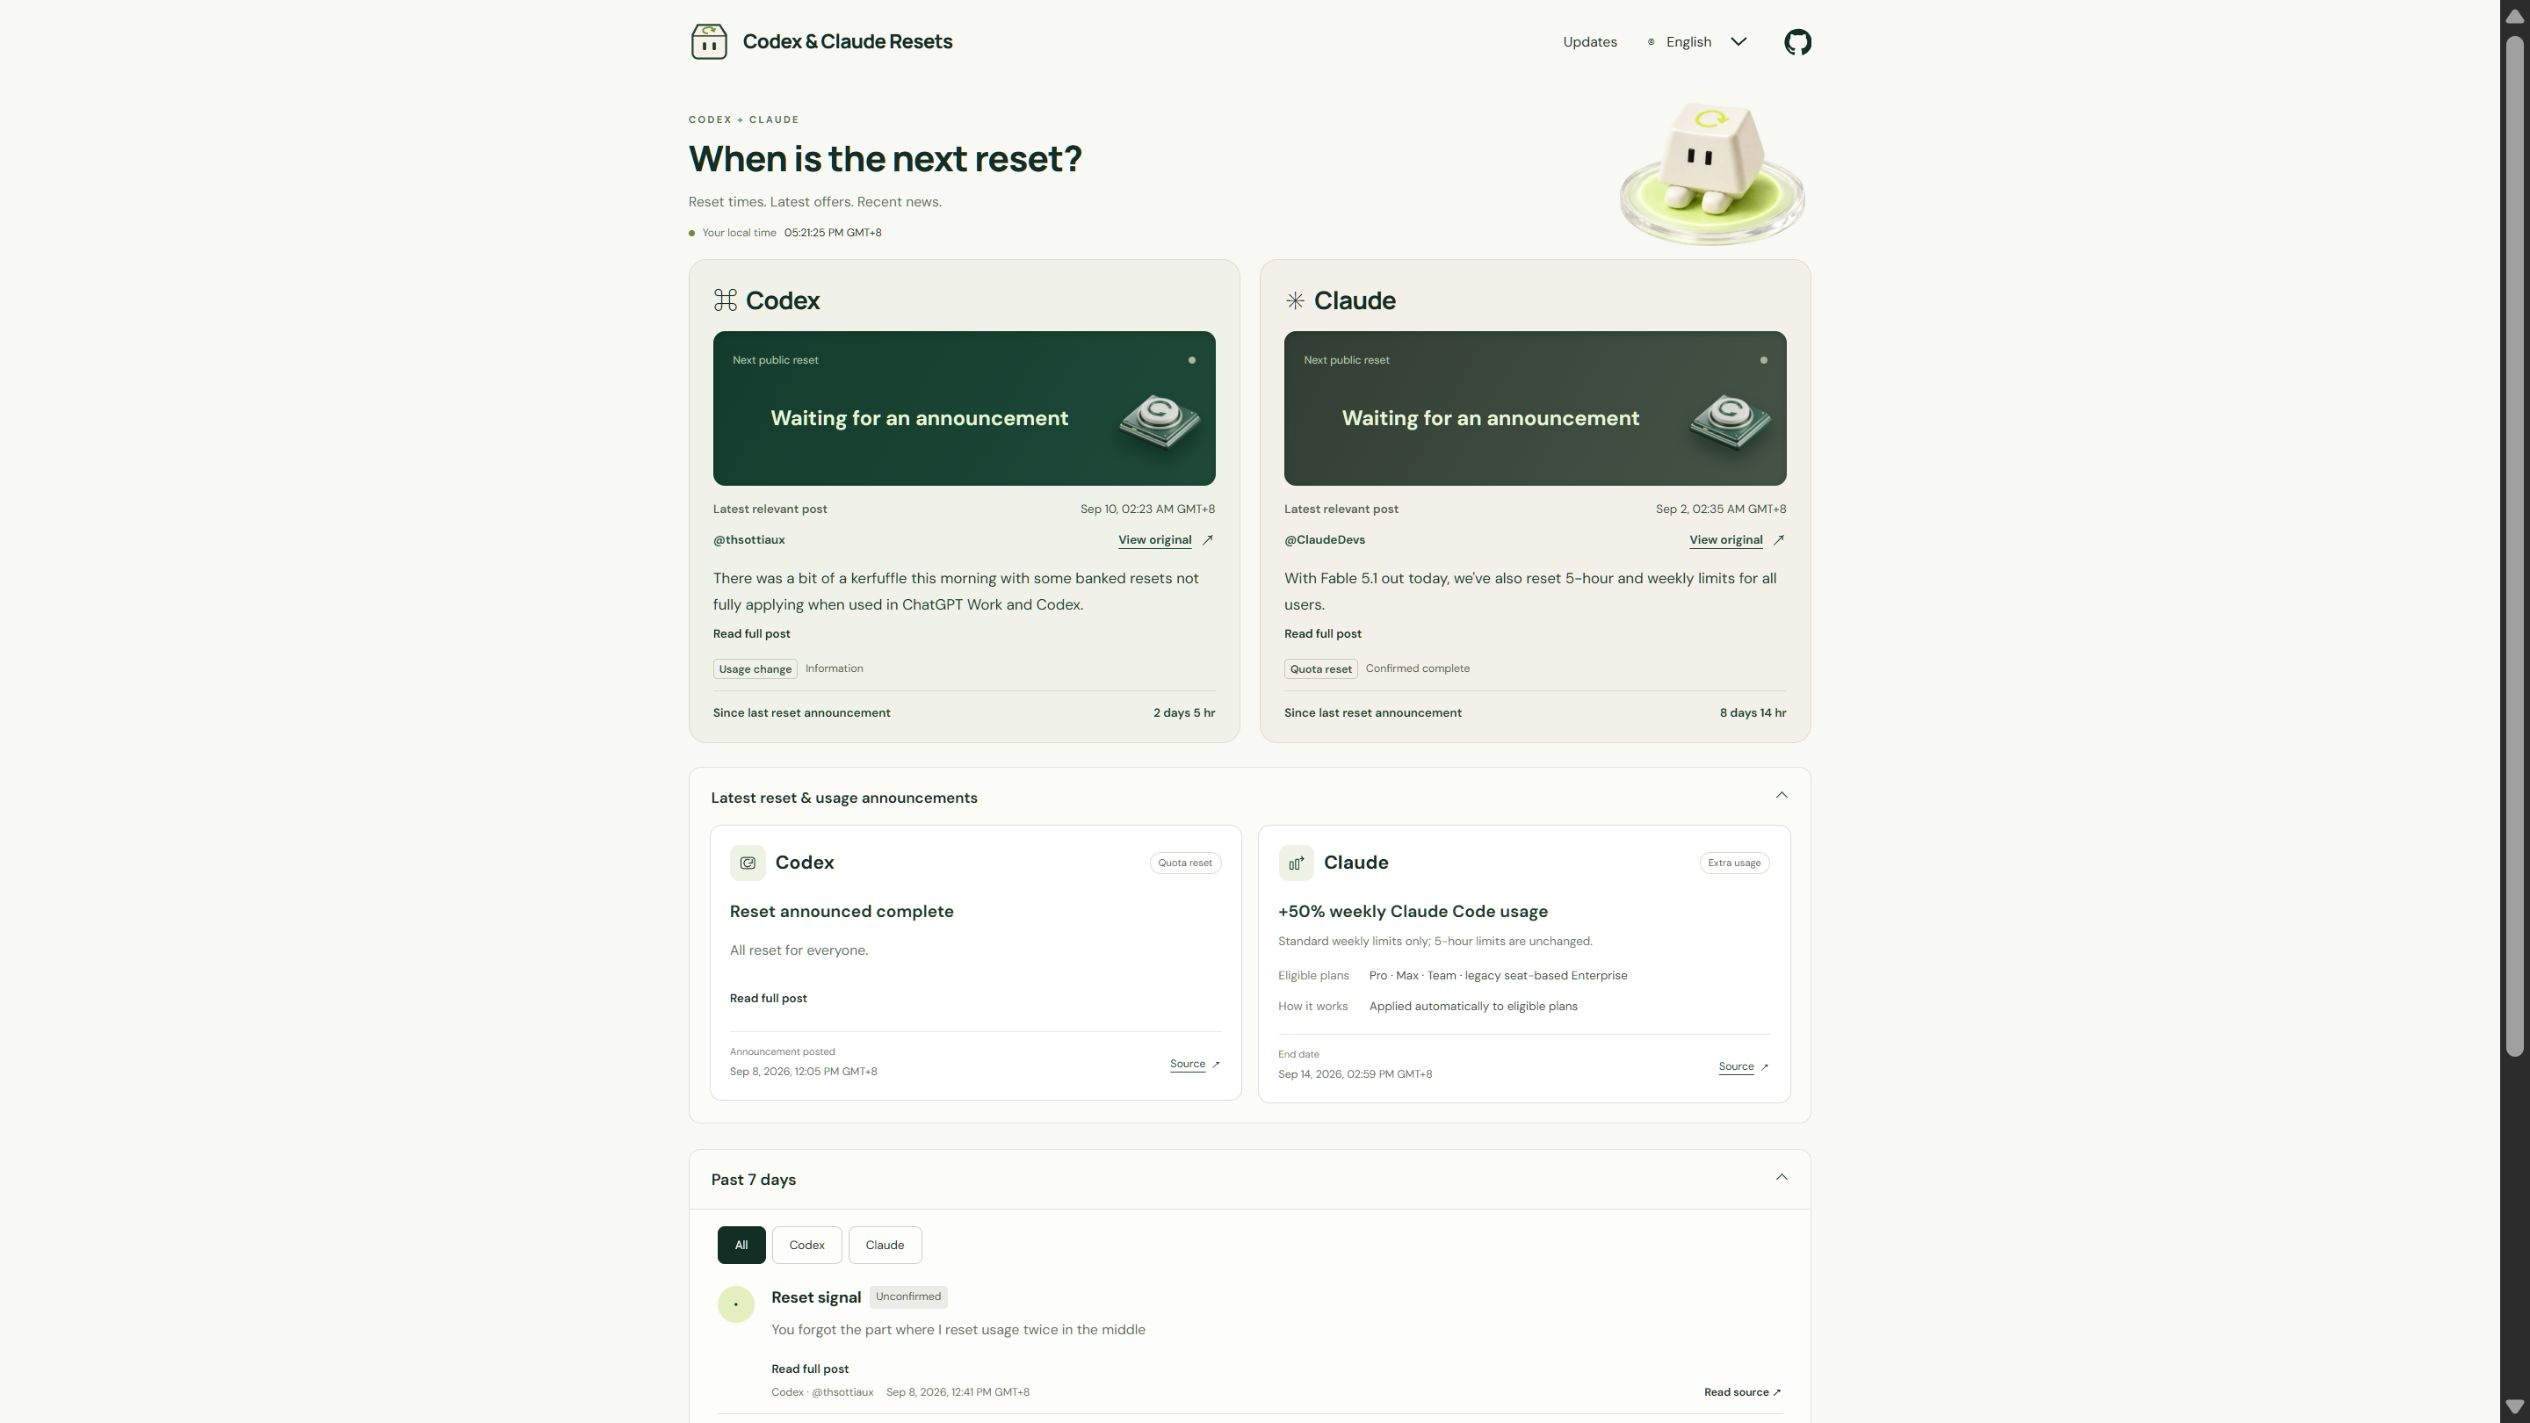
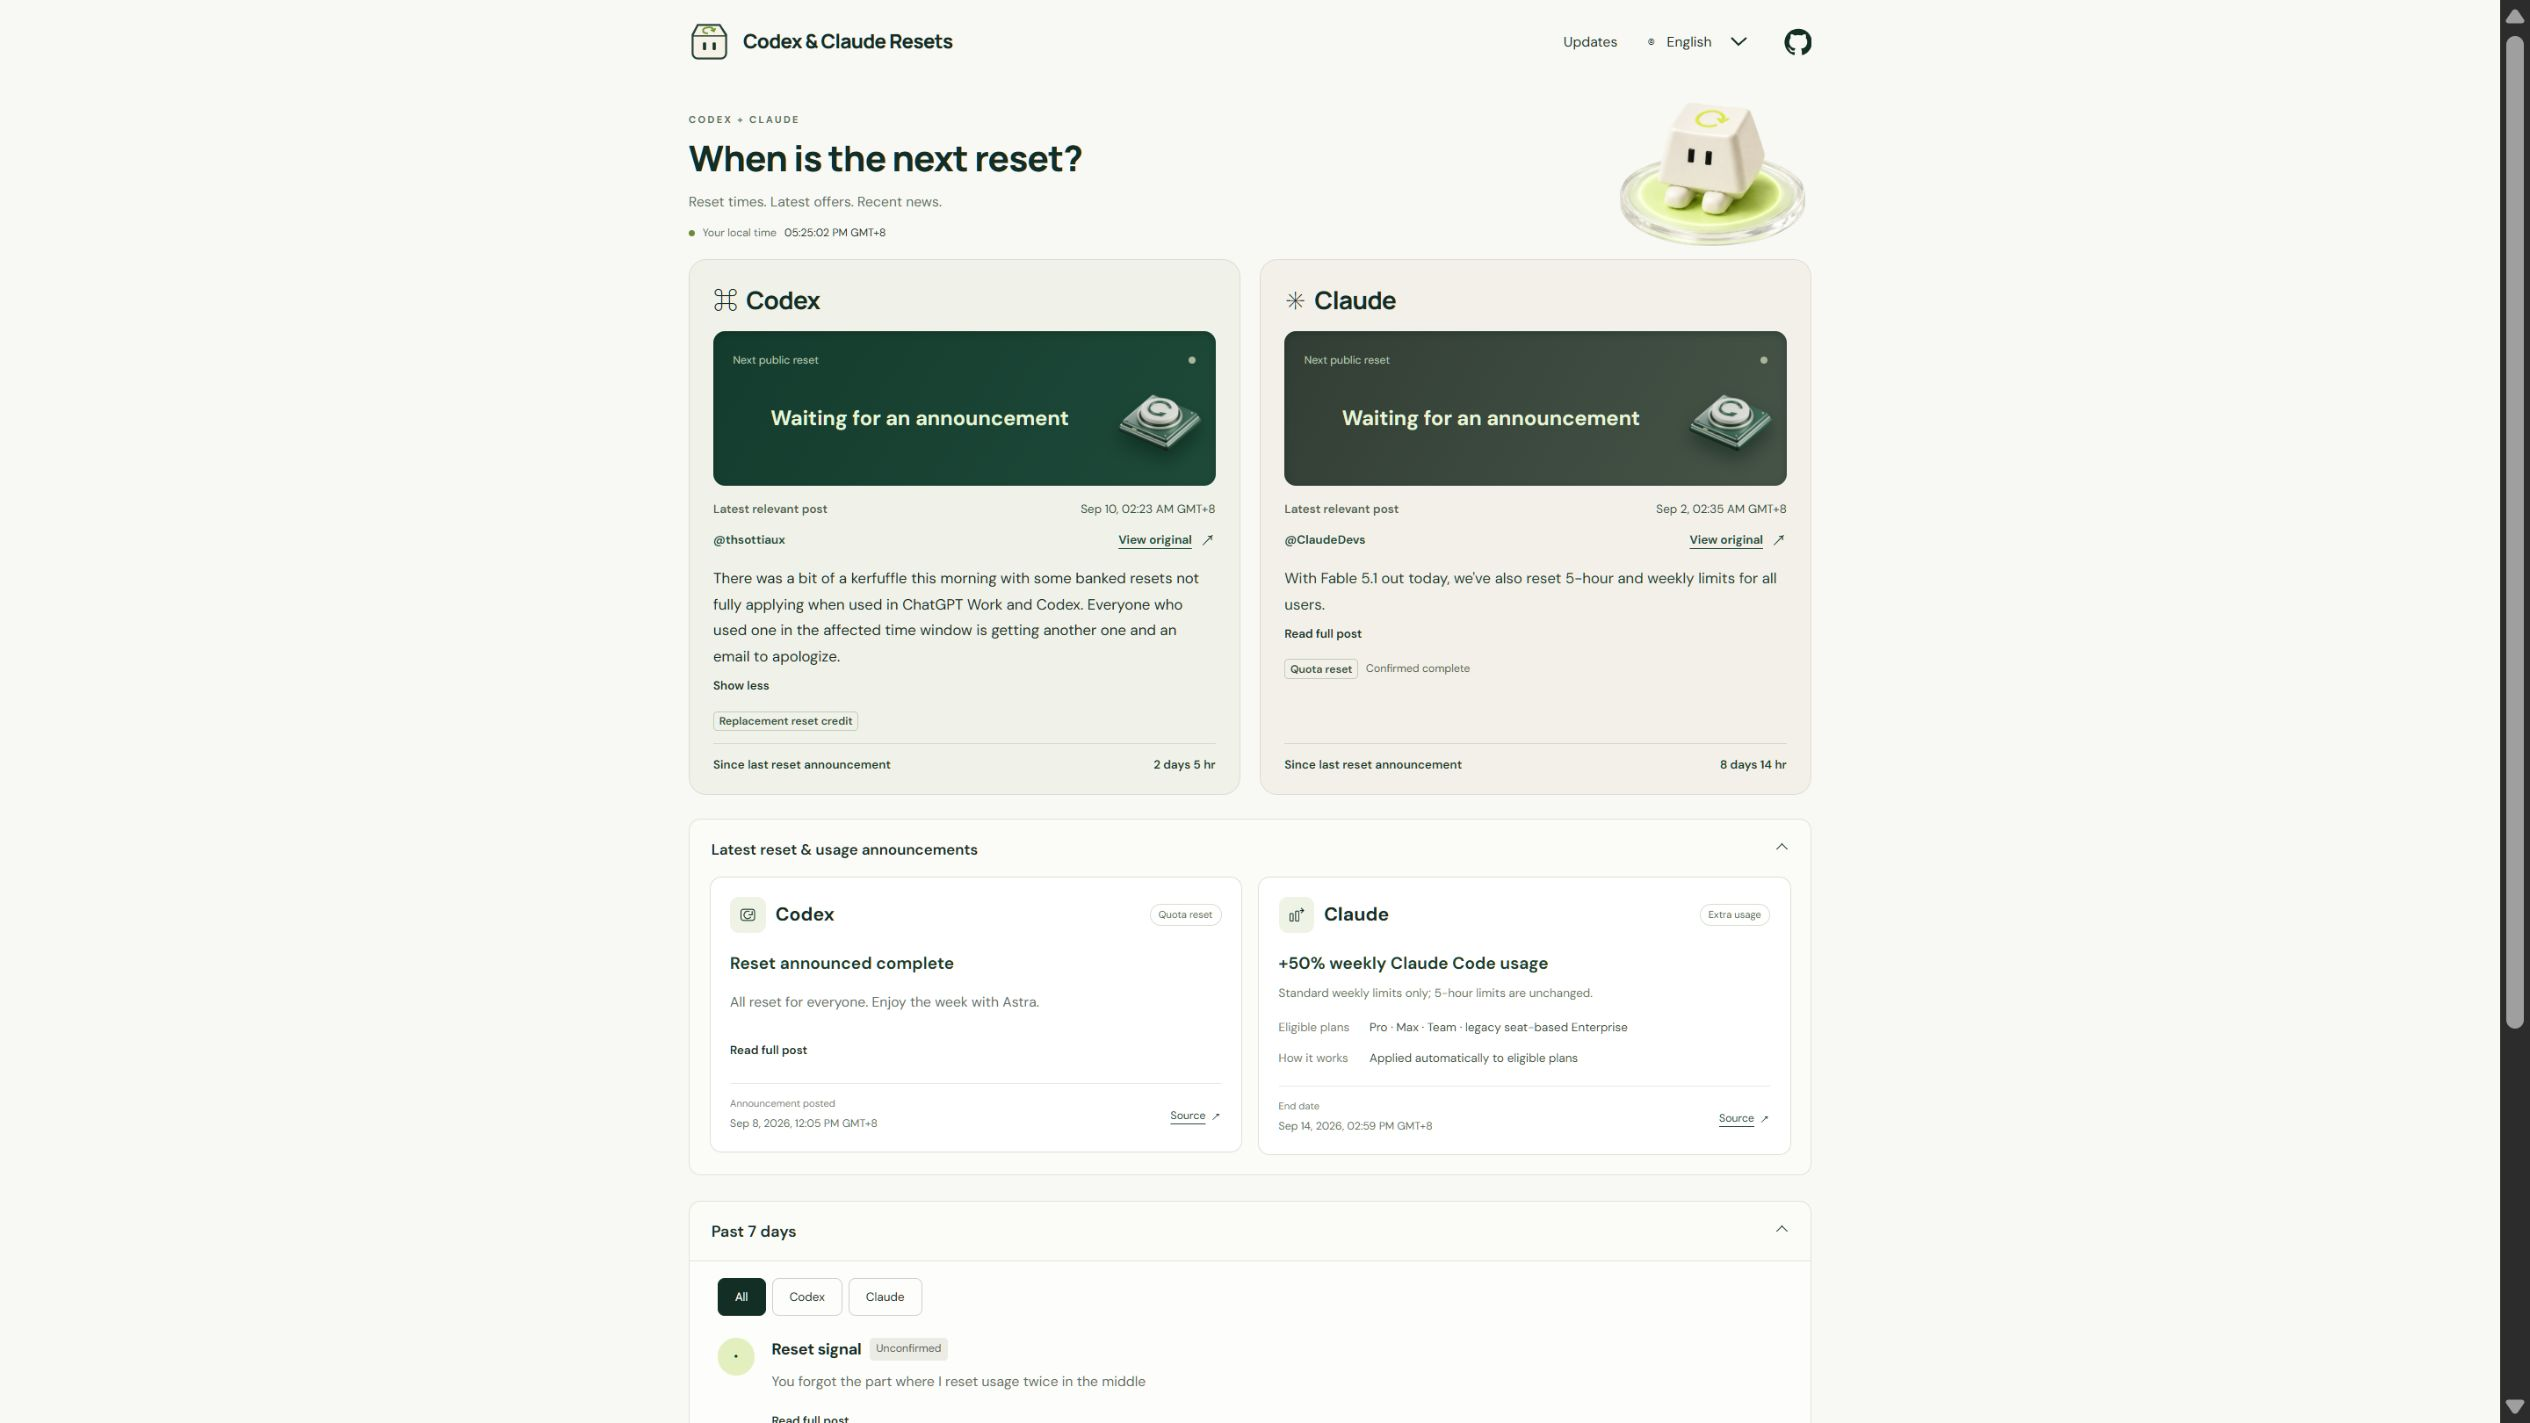
Preview continuous source text and expand in place

diff --git a/src/clocks.css b/src/clocks.css
@@ -41,3 +41,5 @@
 .platform-grid{align-items:stretch}.reset-overview{padding-bottom:24px}.platform-card{padding-bottom:20px!important}.last-reset>span:first-child{flex:1;min-width:0}.last-reset>[data-reset-elapsed]{flex:0 0 auto;text-align:end}@media(max-width:650px){.reset-overview{padding-bottom:20px}.platform-card{padding-bottom:18px!important}}
 
 .post-full>summary{justify-content:flex-start;padding:6px 0;font-size:12px;color:var(--ink);gap:0;min-height:32px}.post-full>summary span{font-size:inherit;font-weight:600;transform:none!important}.post-full .collapse-label{display:none}.post-full[open] .expand-label{display:none}.post-full[open] .collapse-label{display:inline}.post-body:has(>.post-full[open])>.tweet-excerpt,.post-body:has(>.post-full[open])>.excerpt,.post-body:has(>.post-full[open])>.offer-excerpt,.post-body:has(>.post-full[open])>.detail-excerpt,.post-body:has(>.post-full[open])>.translation-note{display:none}.full-post-text{white-space:pre-wrap;overflow-wrap:anywhere;font-size:14px;line-height:1.85;margin:8px 0;color:var(--ink)}.post-full>summary:focus-visible{outline:2px solid #4e7158;outline-offset:3px;border-radius:2px}
+.post-preview{display:-webkit-box;-webkit-box-orient:vertical;-webkit-line-clamp:2;overflow:hidden;white-space:pre-wrap}
+.post-full[open]{position:relative;padding-bottom:32px}.post-full[open]>summary{position:absolute;inset-inline:0;bottom:0}.post-full[open]>.full-post-text{margin:0;font:inherit;line-height:1.75}.platform-card .post-full[open]>.full-post-text{font-size:15px}@media(max-width:650px){.platform-card .post-full[open]>.full-post-text{font-size:14px;line-height:1.8}}
